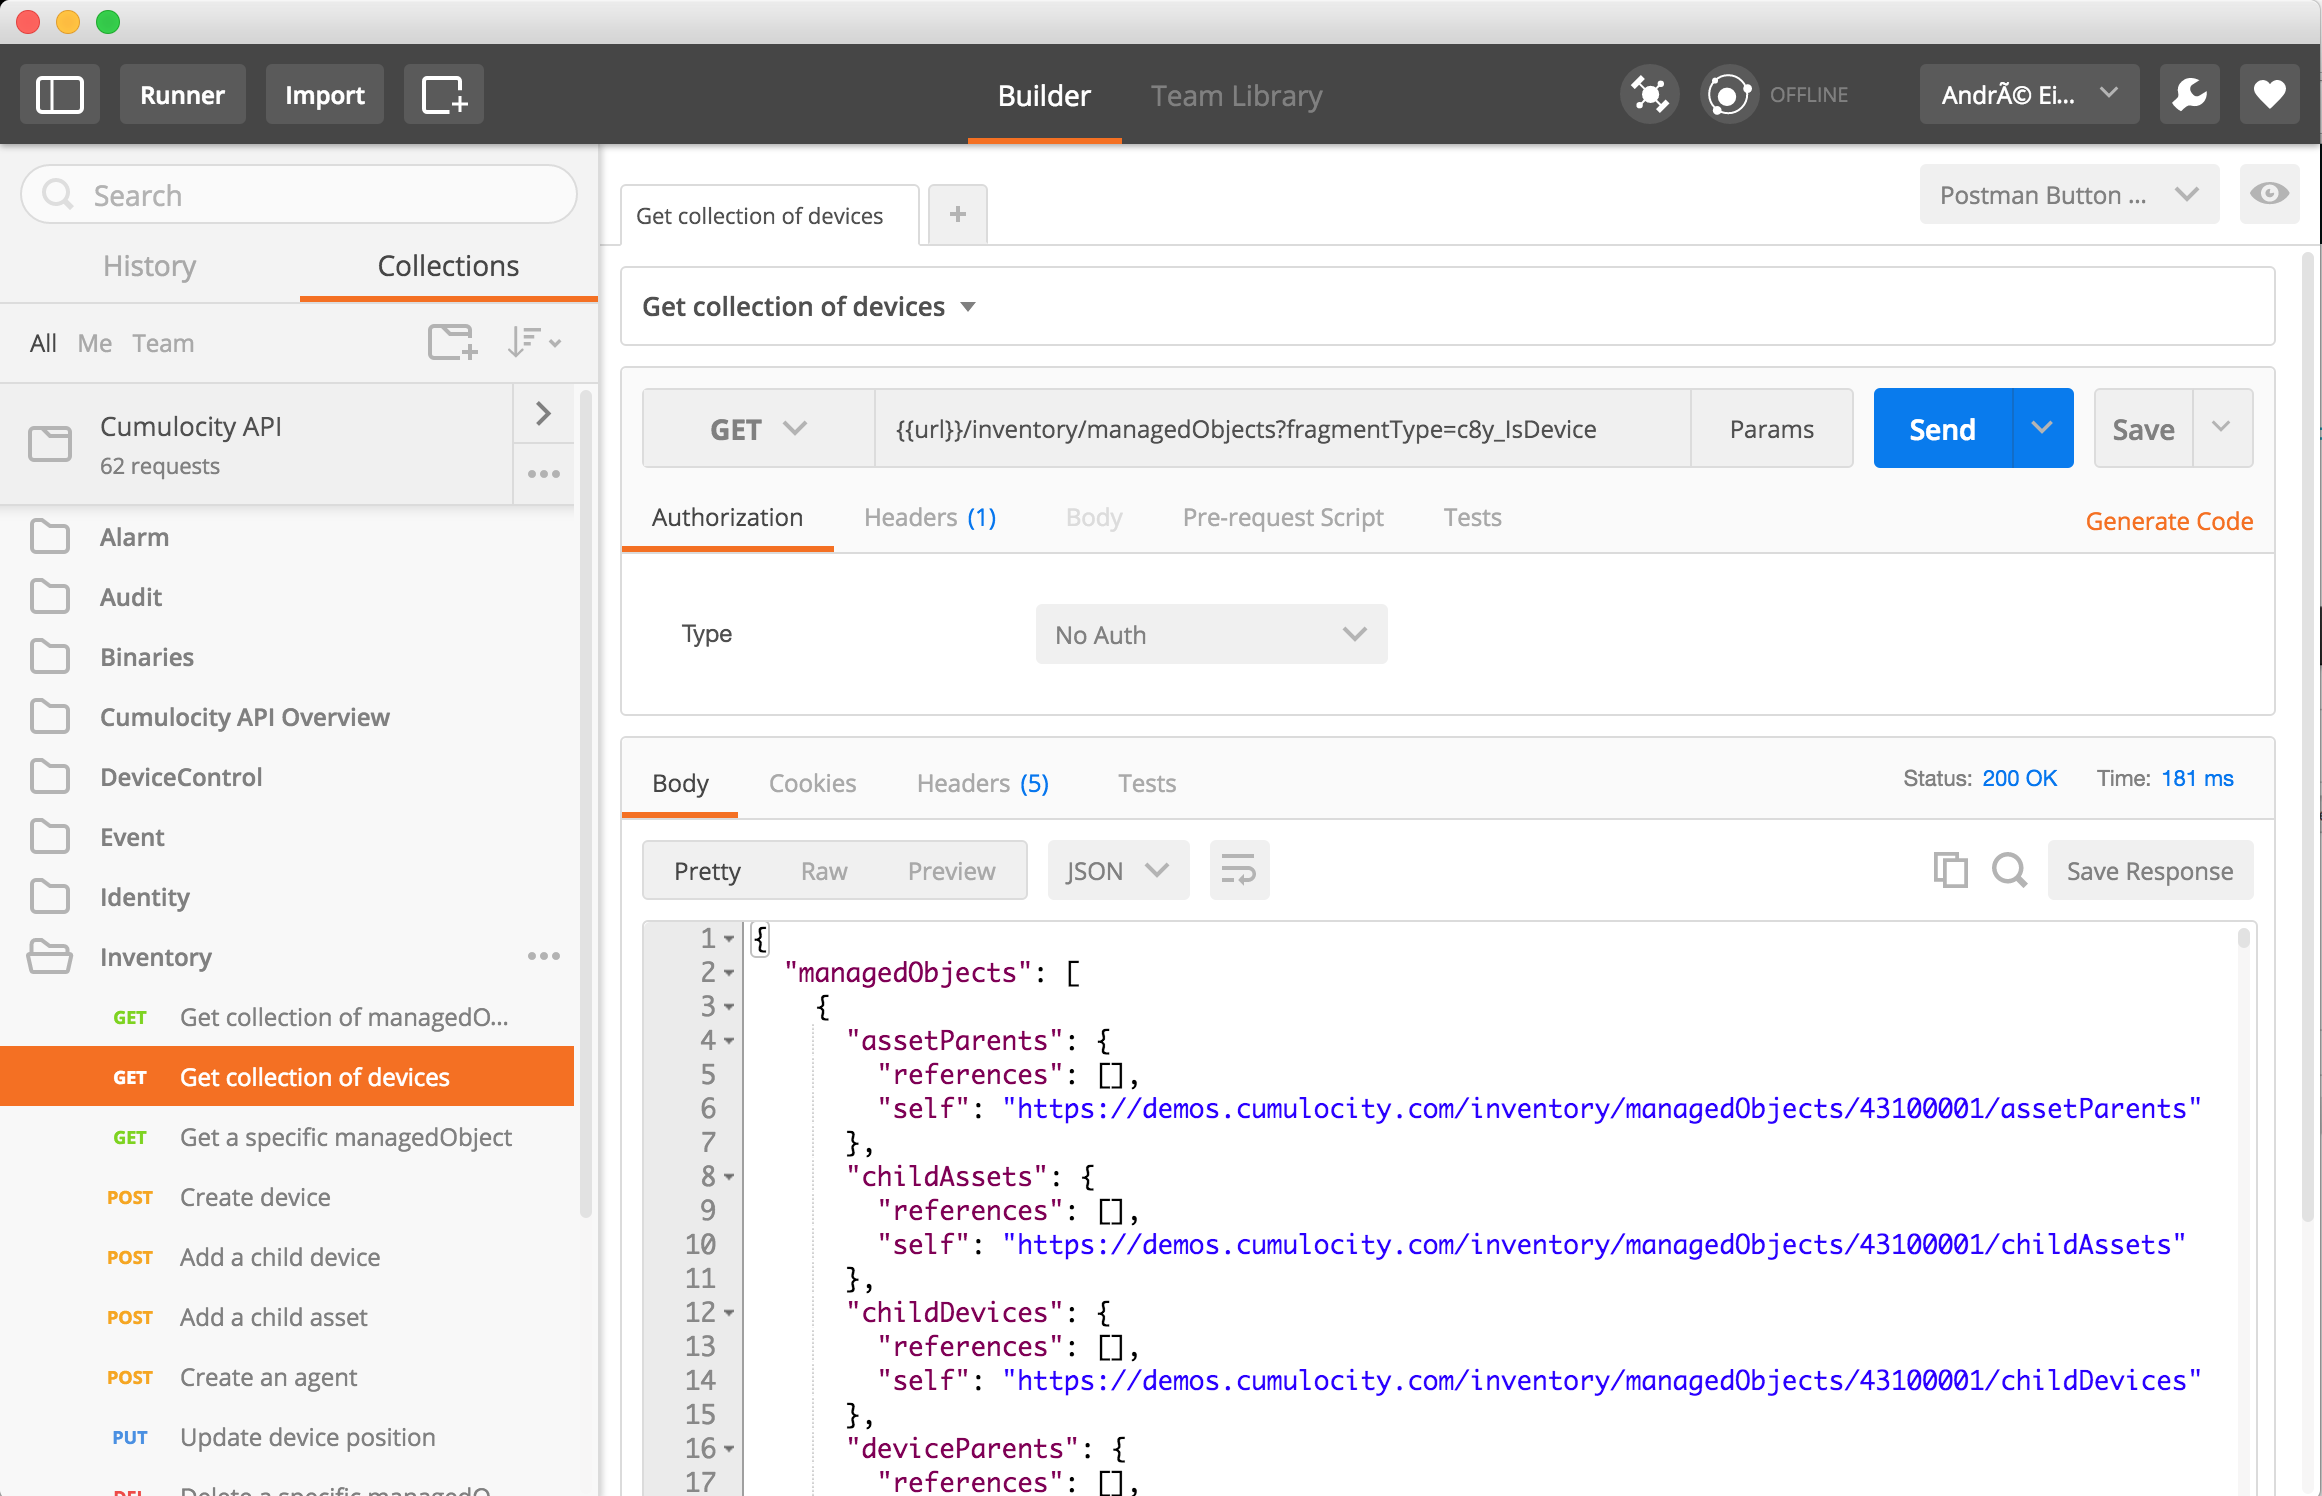
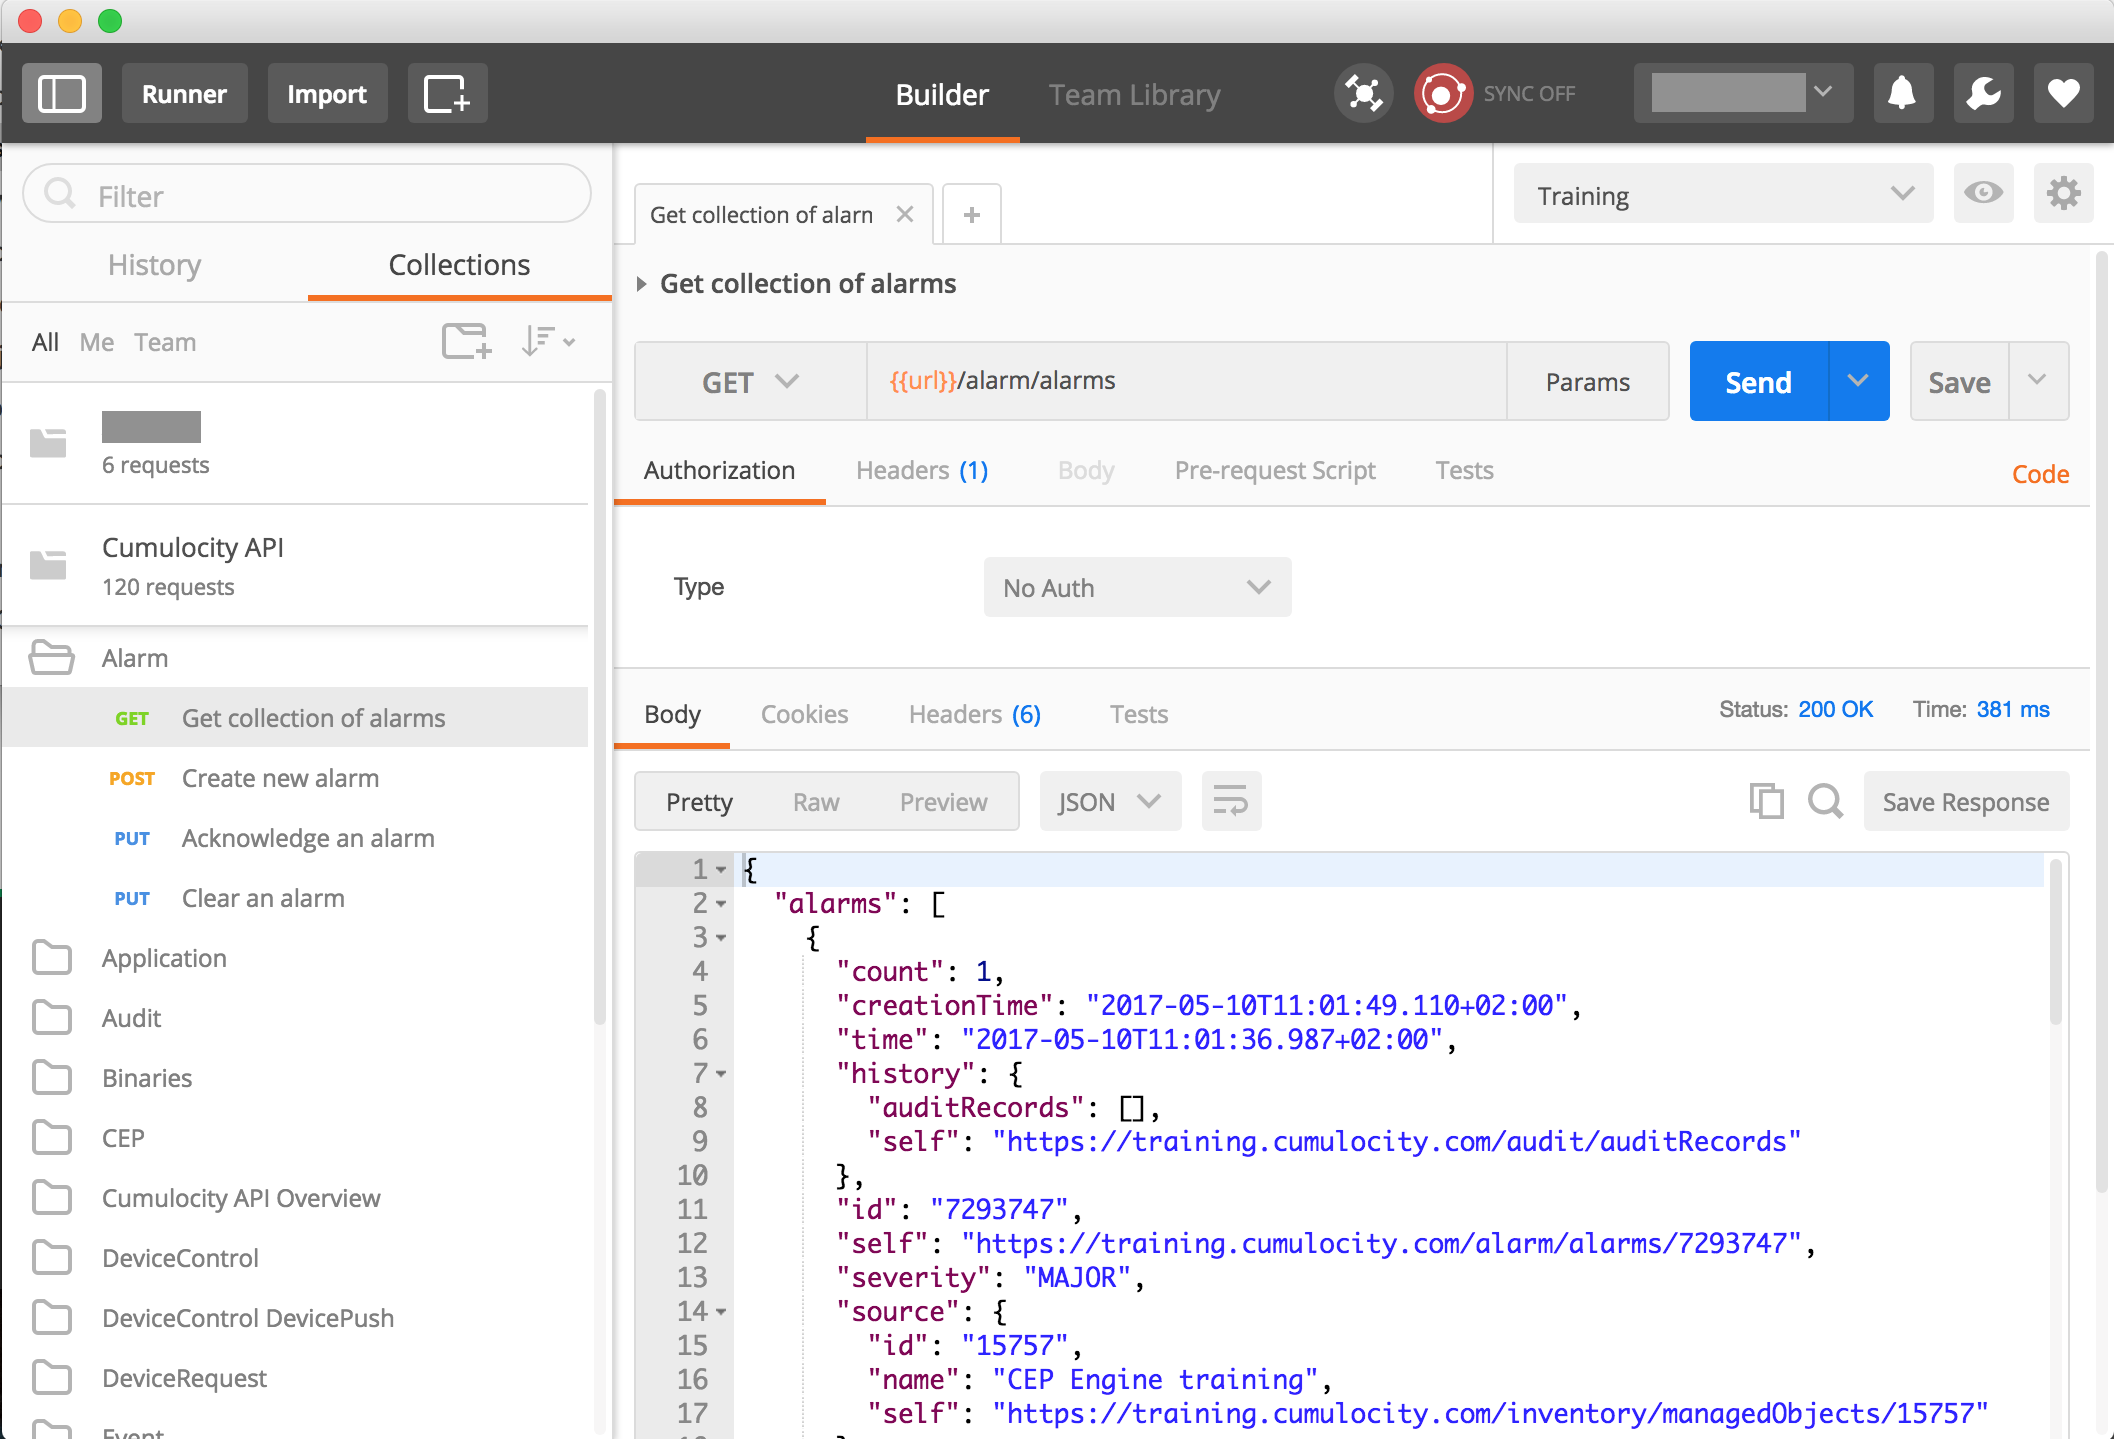
Updated the postman description to match the latest version of postman. Shortened "Benutzerhandbuch" to "Handbuch" to avoid line breaking issues.

diff --git a/src/documents/guides/rest/introduction.html.md b/src/documents/guides/rest/introduction.html.md
@@ -31,7 +31,7 @@ For example, many operating systems come pre-installed with the "curl" command. 
 
 	$ curl -u <username>:<password> https://<yourURL>.cumulocity.com/platform
 
-Replace "username" and "password" with the username and password that you used to register to Cumulocity. Similarly, replace "yourURL" with the URL you used at registration time. If you subscribed to Deutsche Telekom's M2M DevFree, replace "yourURL" with "dev-dg". 
+Replace "username" and "password" with the username and password that you used to register to Cumulocity. Similarly, replace "yourURL" with the URL you used at registration time. 
 
 The command will return links to all basic interfaces of Cumulocity:
 
@@ -58,21 +58,26 @@ You will notice that just a subset of the items in the inventory is actually ret
 
 ## Using Postman
 
-A convenient way to explore REST interface and the Cumulocity database content are browser extensions such as  [Postman](https://chrome.google.com/webstore/detail/postman-rest-client-packa/fhbjgbiflinjbdggehcddcbncdddomop?utm_source=chrome-ntp-launcher) or [Advanced REST Client](https://chrome.google.com/webstore/detail/advanced-rest-client/hgmloofddffdnphfgcellkdfbfbjeloo) for Chrome.
+A convenient way to explore REST interface and the Cumulocity database content are graphical REST clients such as [Postman](https://www.getpostman.com/).
 
 ![Example REST client](/guides/rest/postman.png)
 
-To set up Postman and import sample REST API commands, click the button below:
+Cumulocity provides numerous online API examples. If you want to make use of them, [download and install Postman](https://www.getpostman.com/). After starting Postman, you can choose to either create an account or click "Take me straight to the app". Then click the button below and choose the variant of Postman that you have just installed. You may see a browser security prompt asking you whether you actually want to run Postman (on Windows "Electron").
 
 [![Run in Postman](https://run.pstmn.io/button.svg)](https://app.getpostman.com/run-collection/7c7d00719ab238097686)
 
-Install Postman as described and import the examples ("API collection"). The collection comes with a sample, read-only environment. To configure further environments: 
+Now, click the "Collections" tab on the top left of Postman. You should see a folder "Cumulocity API" with the examples. Open that folder and the sub-folder "Alarms", then click on "Get collection of alarms". This shows an example on how to get alarms from Cumulocity. 
 
-* Click on drop-down menu next to the little "eye" widget to configure your Cumulocity URL. Click "Manage environments" and "Add". 
-* Then type a name for your tenant. Configure a key "url" with a value of "https://&lt;yourURL&gt;.cumulocity.com". Click "Submit".
-* Now, you can run REST calls. Click, for example, on "Cumulocity API", "Cumulocity API Overview", "GET Platform". By clicking the "Send" button, you can send the GET request to Cumulocity. The first time that you send a request to Cumulocity, you have to enter your credentials. Click on "Basic Auth" and enter your username and password, followed by a click on "Refresh Headers".
-* To explore the API, click on the links in the responses. Similar to navigate through pages of results, click on the "next" link at the bottom of the response. Add, for example, "?pageSize=100" to the end of the request URL to get more data than the default five items.
+Note that the example contains placeholders, in this case a placeholder "url" in "{{url}}/alarm/alarms". You need to tell Postman how to fill these placeholders and by this, how to connect to your Cumulocity account. To do so, create an ["environment"](https://www.getpostman.com/docs/environments) and configure the placeholders.
 
-> Note that Postman has two issues: It always sends a content type even if you do not specify one. If you see an error, please add the "Content-Type" header described in the reference manual. It also sometimes shows "Malformed JSON" as a response, which is a [bug](https://www.bountysource.com/issues/3141137-malformed-json-with-a-200-ok-and-no-content) in Postman.
+* Click on the cogwheel on the top right and choose "Manage Environments", then click the "Add".
+* Enter a name for the environment (e.g., your tenant name), then add values for the placeholders.
+* Configure a key "url" with a value of "https://&lt;yourURL&gt;.cumulocity.com". Click "Submit".
+* Configure a key "auth" with the value of the "Authorization" header for the REST requests.
+* Click "Add", then close the dialog. Now select your newly created environment from the drop-down box on the top right, that initially reads "No environment".
 
-> You can also configure a key "auth" in your Postman environment so that you do not have to enter your credentials each time. "auth" contains the HTTP authorization header with your Base64-encoded credentials. Example: Assume your username is "me" and your password is "secret". Go to http://ostermiller.org/calc/encode.html, type "me:secret" into the text area, then click the "Encode" button in the row "Base 64". The resulting text is "bWU6c2VjcmV0". Use "Basic bWU6c2VjcmV0" as value for "auth".
+<img src="/guides/rest/postmanenvironment.png" alt="Postman environment setup" style="max-width: 50%">
+
+> A simple way to determine the correct value for the "auth" key is to use a web tool. Example: Assume your username is "me" and your password is "secret". Go to http://ostermiller.org/calc/encode.html, type "me:secret" into the text area, then click the "Encode" button in the row "Base 64". The resulting text is "bWU6c2VjcmV0". Use "Basic bWU6c2VjcmV0" as value for "auth".
+
+Now start exploring the API.
